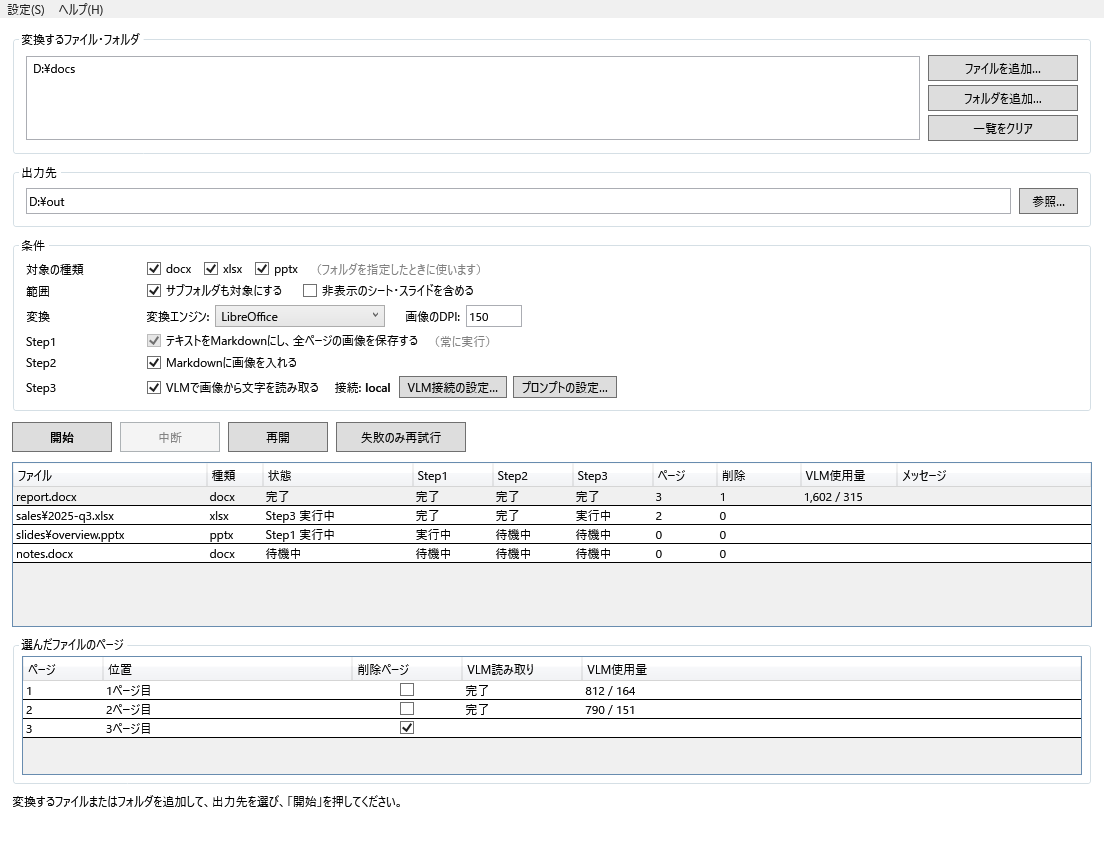
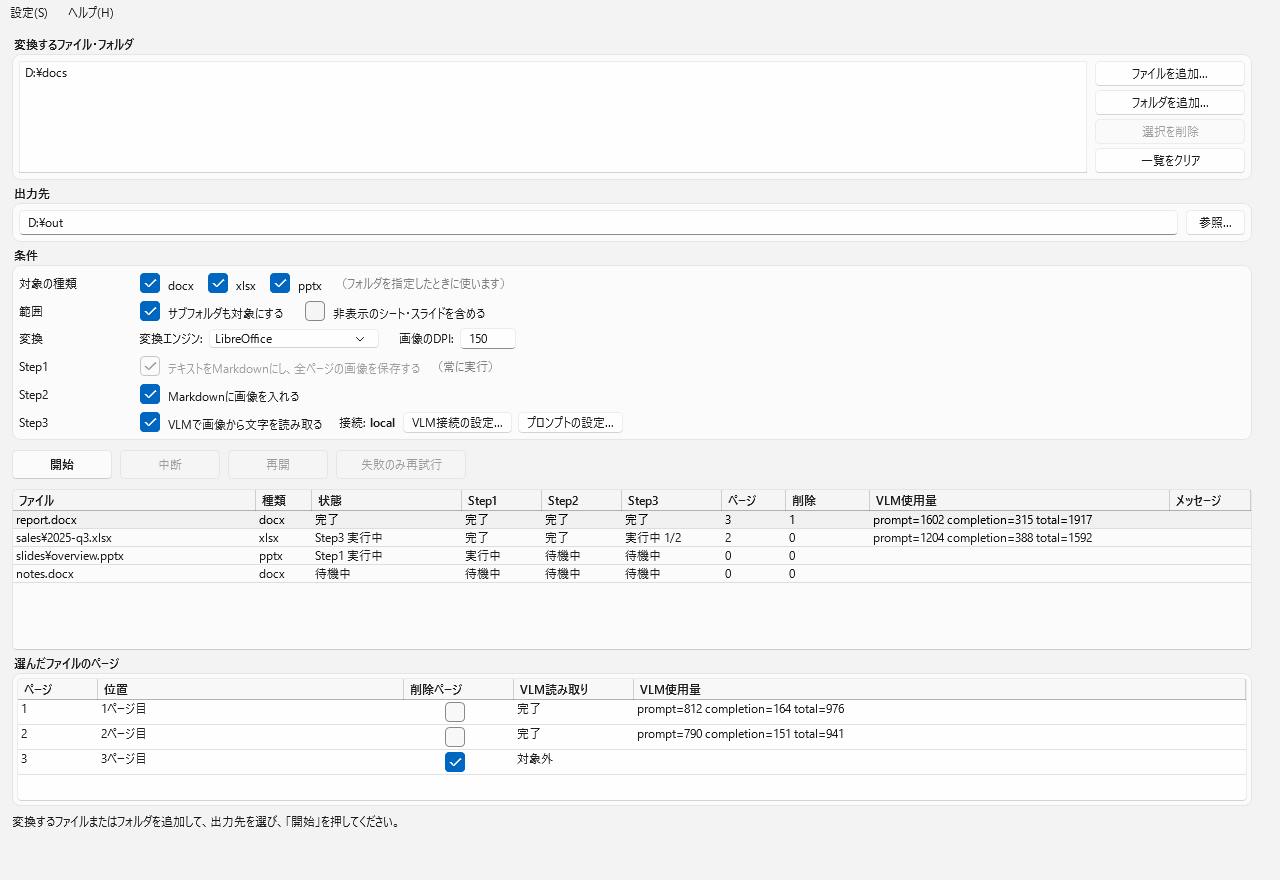
docs: new screenshots of the main window; widen the usage and file columns
The usage column shows the cost now, so it is wider, and the window opens at 1280 pixels.

diff --git a/src/MarkPortO.App/MainWindow.xaml b/src/MarkPortO.App/MainWindow.xaml
@@ -18,7 +18,7 @@
 <Window x:Class="MarkPortO.App.MainWindow"
         xmlns="http://schemas.microsoft.com/winfx/2006/xaml/presentation"
         xmlns:x="http://schemas.microsoft.com/winfx/2006/xaml"
-        Icon="Assets/MarkPortO.ico" Title="MarkPortO" Height="880" Width="1120" MinHeight="640" MinWidth="780">
+        Icon="Assets/MarkPortO.ico" Title="MarkPortO" Height="880" Width="1280" MinHeight="640" MinWidth="780">
   <DockPanel>
     <!-- Menu bar (FR-032) -->
     <Menu DockPanel.Dock="Top">
@@ -172,7 +172,7 @@
           </Style>
         </DataGrid.RowStyle>
         <DataGrid.Columns>
-          <DataGridTextColumn Binding="{Binding FileName}" Width="2*">
+          <DataGridTextColumn Binding="{Binding FileName}" Width="3*">
             <DataGridTextColumn.Header>
               <TextBlock Text="{DynamicResource Main_Col_File}" />
             </DataGridTextColumn.Header>
@@ -205,12 +205,12 @@
               <TextBlock Text="{DynamicResource Main_Col_Deleted}" />
             </DataGridTextColumn.Header>
           </DataGridTextColumn>
-          <DataGridTextColumn Binding="{Binding UsageText}" Width="*">
+          <DataGridTextColumn Binding="{Binding UsageText}" Width="300">
             <DataGridTextColumn.Header>
               <TextBlock Text="{DynamicResource Main_Col_Usage}" />
             </DataGridTextColumn.Header>
           </DataGridTextColumn>
-          <DataGridTextColumn Binding="{Binding Message}" Width="2*">
+          <DataGridTextColumn Binding="{Binding Message}" Width="*">
             <DataGridTextColumn.Header>
               <TextBlock Text="{DynamicResource Main_Col_Message}" />
             </DataGridTextColumn.Header>
